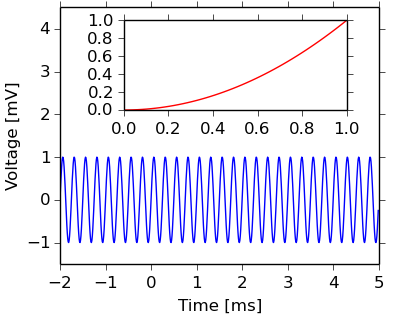
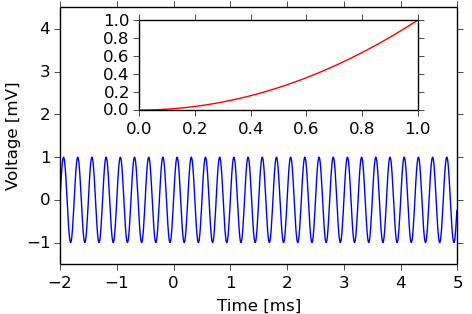
[insets] fixed documentation

diff --git a/doc/figures/insets.py b/doc/figures/insets.py
@@ -12,7 +12,7 @@ def insets_figures():
     def new_figure():
         plt.rcParams['xtick.direction'] = 'out'
         plt.rcParams['ytick.direction'] = 'out'
-        fig, ax = plt.subplots(figsize=(10, 8))
+        fig, ax = plt.subplots(figsize=(12, 8))
         fig.subplots_adjust(left=6.0, right=1.5, top=0.5, bottom=3.0)
         x = np.arange(-2.0, 5.0, 0.01)
         y = np.sin(2.0*np.pi*4.0*x)

diff --git a/doc/insets.md b/doc/insets.md
@@ -39,7 +39,7 @@ original data (second argument, in data coordinates: x0, y0, x1, y1)
 and sets the limits of the inset axes accordingly.
 
 The third argument specifies lines to be drawn from the data box to
-the inset. Each tuple specifies a corne on the data box that is to be
+the inset. Each tuple specifies a corner on the data box that is to be
 connected with another corner of the inset.
 
 ![zoomed_inset](figures/insets-zoomed_inset.png)
